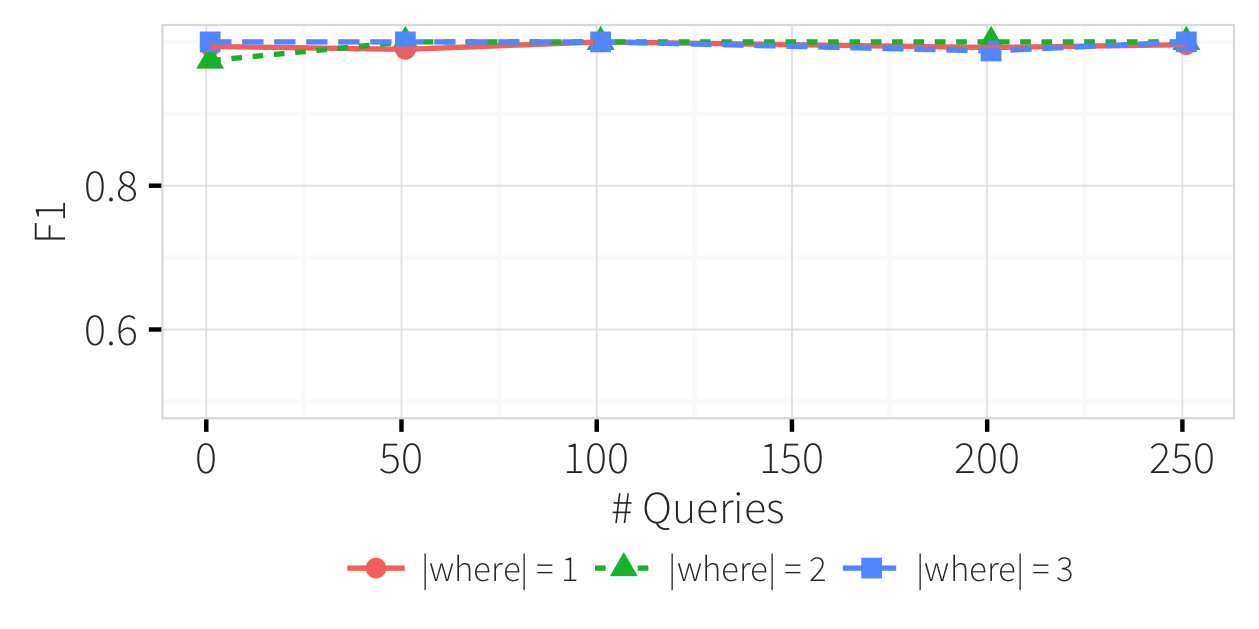
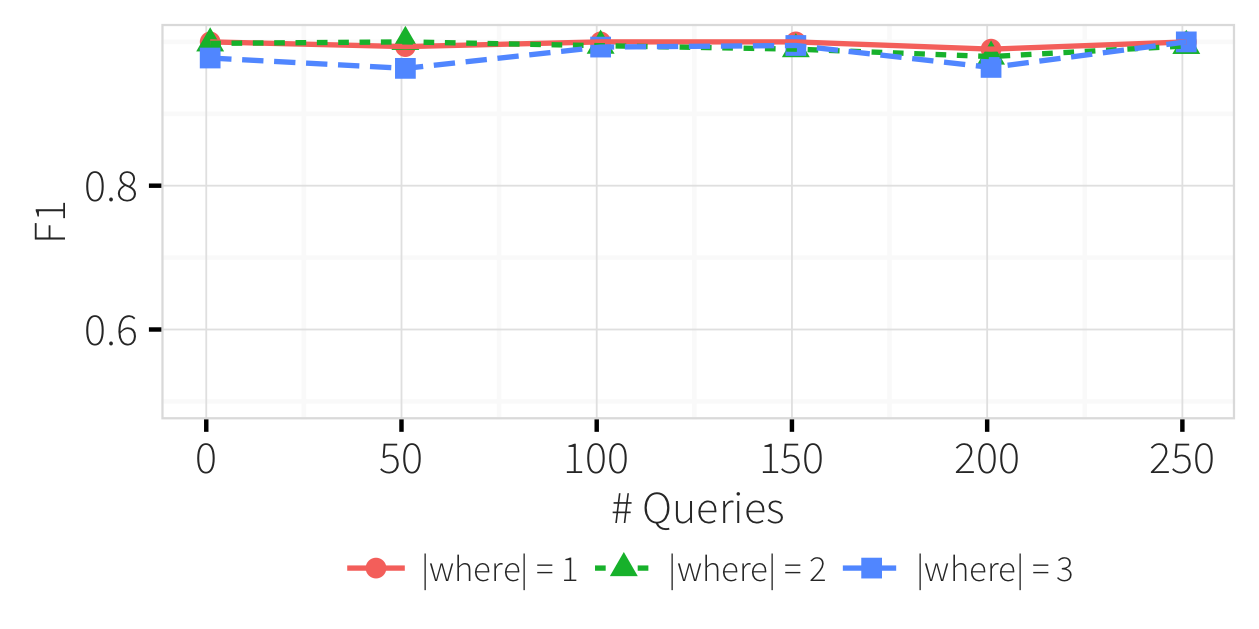
update with nearly full results (where size  with few datapoint running)

Changed region(s): [[0.1549, 0.0302, 0.9603, 0.1208]]

diff --git a/docs/vldb16/content/xx-experiments.tex b/docs/vldb16/content/xx-experiments.tex
@@ -492,6 +492,7 @@ experiments.
     \vspace*{-.1in}
     \caption{Skew and False Negative experiments. }
   \end{figure*}
+  \vspace*{-0.1in}
 
 
 \iffalse 
@@ -523,11 +524,11 @@ easier to solve than relative update because of two reasons: 1. constraints we c
 \stitle{Scalability - Query Complexity (where clause size):}
 Our final scalability experiment (Figures~\ref{f:where_time})
 varies the complexity of the update queries by increasing the number of predicates in the \texttt{WHERE} clause, 
-while keeping the overall selectivity constant.  \xlw{ NEED TO REWRITE AFTER experiment done. 
+while keeping the overall selectivity constant. In addition, we force the complaint set size within the same range for each corrupt query index. From Figure~\ref{f:where_time}, we found that larger predicate size increases the cost in solving a problem. This is expected as when there are more predicates, the number of constraints and variables in the MILP problem also increase, which further increase the problem complexity.
 %We find that the performance improves as the number of predicates increases.
 %This counter-intuitive result is due to the reduction in the complaint set size as the complexity increases. 
 %Again, we omit the accuracy result as \sys exhibit above 0.996 average F1 score in all settings. 
-}
+
 
 \stitle{Skew:} We now study the effects of attribute skew on the algorithms.
 We vary the skew parameter from $0$ (uniform) to $1e-7, 0.5, 1$. When $s=1$, nearly every attribute is on $A_0$.

diff --git a/docs/vldb16/content/xx-optimizations.tex b/docs/vldb16/content/xx-optimizations.tex
@@ -25,6 +25,7 @@ this experiment illustrates the limitations of the na\"ive approach.
     \caption{Log size vs. execution time on synthetic setup. }
     \label{fig:querysize_vs_time}
 \end{figure}
+\vspace*{-0.1in}
 
 To resolve this limitation, we explored three classes of \emph{slicing} optimizations that seek to
 reduce the number of tuples, queries, and attributes that are encoded in the MILP problem.
@@ -108,8 +109,9 @@ does not over-generalize the upper bound towards the right because that strictly
 On the other hand, over-generalizing the lower bound towards the dirty interval
 is expected because it decreases the Manhattan distance between the repaired and corrupted lower bounds,
 which are parameters in the objective function. Therefore, to perform tuple slicing successfully, we need to reduce the repaired interval and exclude those non-complaint tuples in case (b).  
+\smallskip
 
-\noindent\textit{Step 2 (Refine Initial Repair):}
+\noindent\textit{Step 2 (Refine Initial Repair):} \\
 Although there are many possible mechanisms to refine the initial repair (e.g., incrementally shrinking
 the repaired interval until the non-complaint tuples are all excluded), 
 the straightforward approaches are not effective when multiple corrupt 

diff --git a/docs/vldb16/content/appendix.tex b/docs/vldb16/content/appendix.tex
@@ -28,11 +28,13 @@ linear equation, using unknown variables to represent any parameters
 in the \texttt{SET} expression. 
   \begin{figure}[h]
   \centering
-    \includegraphics[width = .8\columnwidth]{figures/heuristicacc}
+    \includegraphics[width = .6\columnwidth]{figures/heuristicacc}
     \vspace*{-.1in}
     \caption{Heuristic Approach vs. \sys on Single-Query. }
     \label{f:heuristic_acc} 
   \end{figure}
+  \vspace*{-0.1in}
+  
 The na\"ive approach that we just described is heuristic in nature. It
 is simple and fast, but it can only process a single incorrect query. As shown in
 Figure~\ref{f:heuristic_acc}, the F-1 score of na\"ive heuristic approach is less 
